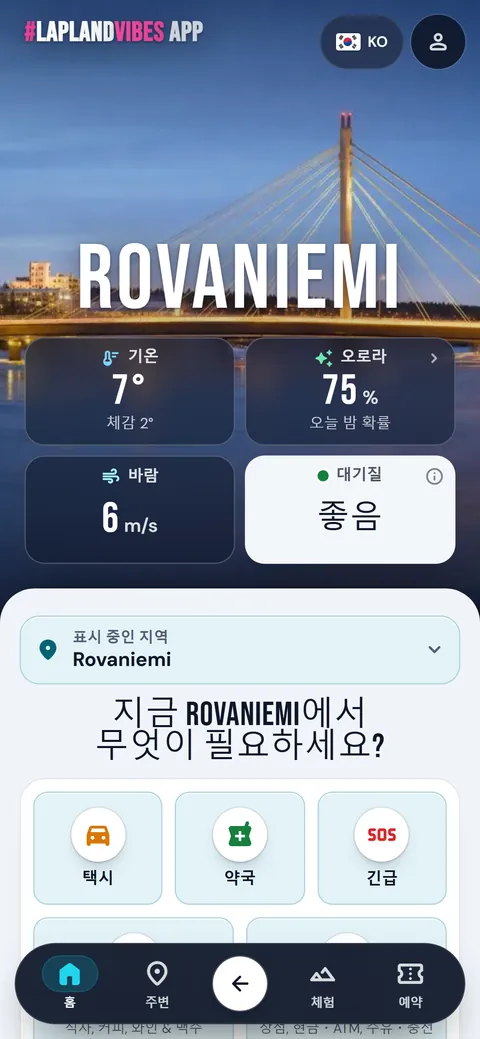
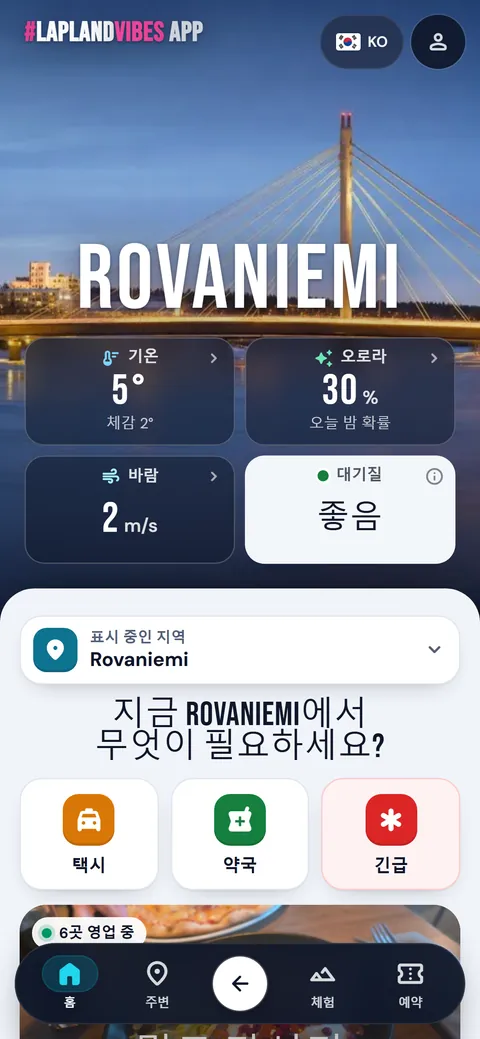
Appimainos koreaksi: näkymänimi 스노우모빌 루트 ja uudet korealaiset kuvat (appin kelkkasana)
Appi kirjoittaa koreaksi 스노우모빌 23.10.2026 alkaen (OpenSEO 2410/ko: 스노우모빌 320 hakua/kk,
스노모빌 0; app 553f7a0). Appimainoksen näkymänimi on aina appin välilehden nimi, joten routes =
스노우모빌 루트, ja korealaiset kuvakaappaukset on otettu uudelleen tuotantoappista (välilehtirivi
näkyy kuvissa). Kanoninen lv-ops shared/appPromo (scripts/rollout_apppromo.mjs).

diff --git a/src/shared/EcosystemMenu.tsx b/src/shared/EcosystemMenu.tsx
@@ -90,7 +90,7 @@ const APP_URL = 'https://app.laplandvibes.com/?install=1&utm_source=web&utm_medi
 // ?v= = appimainoksen kuvien tiiviste (shared/appPromo/screens.ts SHOTS_V). Kirjaimellinen rivi eikä tuonti: prebuild-sync
 // päivittää tämän tiedoston myös sivustoille, joilla src/shared/appPromo/ ei vielä ole (christmas 2.10.2026). lv-opsin
 // app_promo_shots.mjs ja rollout_apppromo.mjs pitävät rivin samana, gate:apppromo-kopiot vertaa.
-const APP_SHOT_V = 'c1182a5a';
+const APP_SHOT_V = '98aa9d04';
 const APP_SHOT_LANGS = new Set(['en', 'fi', 'sv', 'de', 'fr', 'es', 'it', 'nl', 'pt-BR', 'ja', 'ko', 'zh-CN']);
 const appShot = (L: string) => `/images/app-promo/now-${APP_SHOT_LANGS.has(L) ? L : 'en'}.webp?v=${APP_SHOT_V}`;
 

diff --git a/src/shared/appPromo/copy.ts b/src/shared/appPromo/copy.ts
@@ -371,7 +371,7 @@ export const COPY: Record<string, Copy> = {
       near: ['주변', '식당·사우나·상점'],
       weather: ['날씨와 노면', '시간별 공식 예보'],
       sos: ['긴급 전화번호', '112 등 주요 번호를 터치 한 번으로 연결'],
-      routes: ['스노모빌 루트', '표시된 모든 루트를 지자체별로'],
+      routes: ['스노우모빌 루트', '표시된 모든 루트를 지자체별로'],
       ski: ['스키장', '스키장 {resorts}곳, 슬로프 {slopes}개와 리프트 {lifts}개'],
       taxi: ['택시', '목적지별 현지 번호'],
       carhelp: ['차량 도움', '견인·타이어·정비소를 가까운 순으로'],

diff --git a/src/shared/appPromo/screens.ts b/src/shared/appPromo/screens.ts
@@ -63,7 +63,7 @@ export const FOCUS_SCREENS: Record<Focus, readonly Screen[]> = {
  * päivittää tämän rivin; gate:apppromo-kopiot tarkistaa että se vastaa shots/-kansiota. Uusi kaappaus samalla tiedostonimellä
  * ⇒ uusi ?v= ⇒ CDN ja selain hakevat uuden kuvan (version-images.mjs versioi vain kirjaimelliset polut, ei tätä).
  */
-export const SHOTS_V = 'c1182a5a';
+export const SHOTS_V = '98aa9d04';
 
 /** Kuvan polku sivustolla. Kieli = sivun lokaali (fi, de, pt-BR, zh-CN …). */
 export const shotSrc = (screen: Screen, lang: string): string => `/images/app-promo/${screen}-${lang}.webp?v=${SHOTS_V}`;
